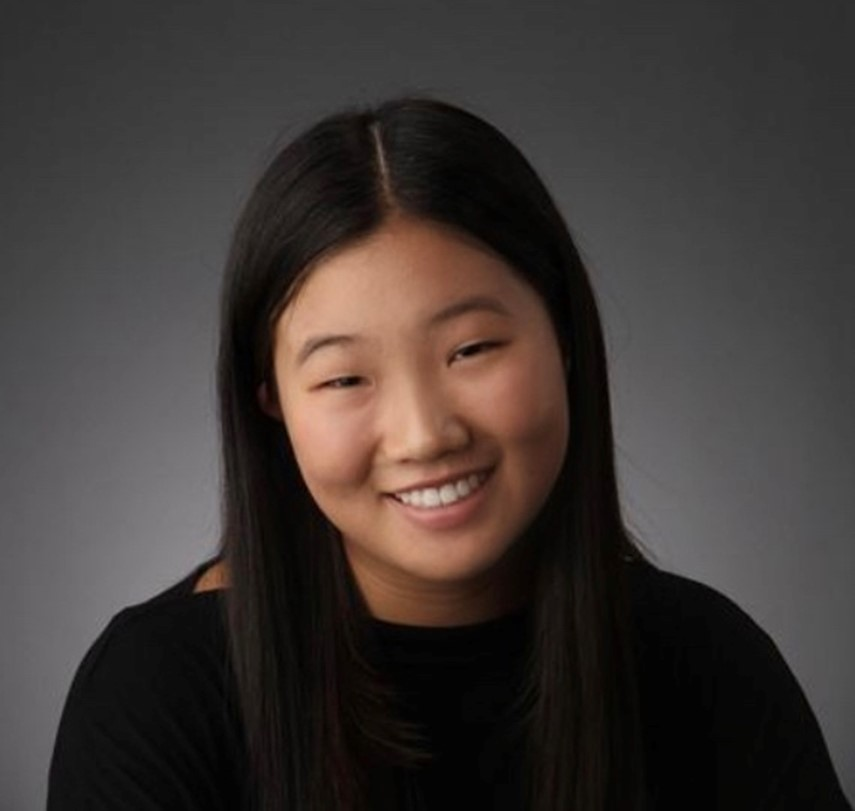
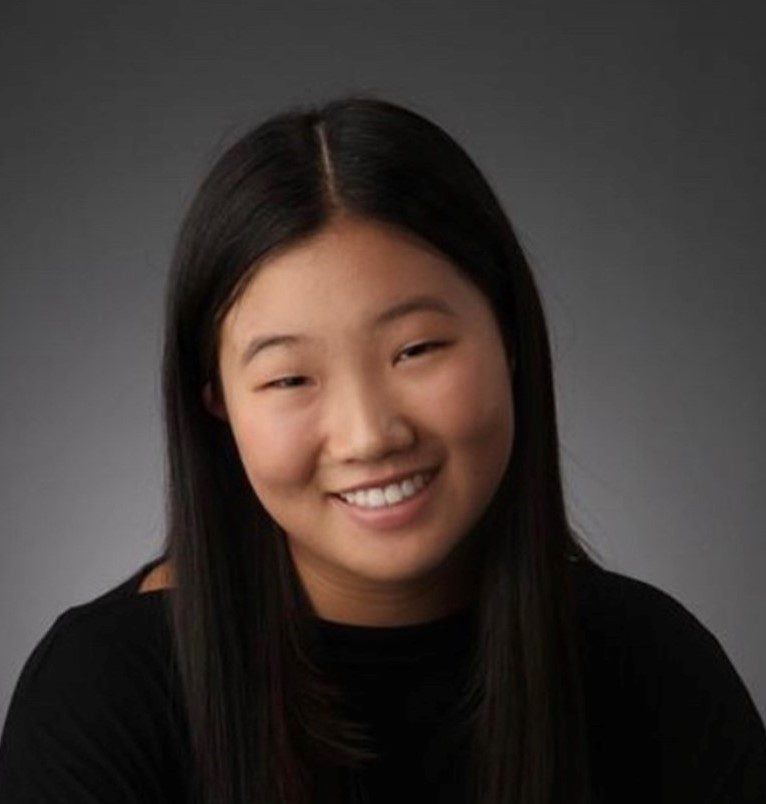
resized images (members pg)

diff --git a/react_packages/src/pages/Members.js b/react_packages/src/pages/Members.js
@@ -38,7 +38,7 @@ const Members = ({children, src, alt, Wrapper = 'div'}) => {
 
         <div className="grid">
 
-          <div className="imgAndName" onClick={toggleIsOpen} style={{ cursor: 'pointer' }} >
+          <div className="imgAndName2" onClick={toggleIsOpen} style={{ cursor: 'pointer' }} >
           <Wrapper>
               {children}
               {isOpen ?
@@ -48,7 +48,7 @@ const Members = ({children, src, alt, Wrapper = 'div'}) => {
                   <div className="blueBg"></div>
                   <div className="innerBg"></div>
 
-                  <img src={marilyn} alt="Marilyn Li, the President of CURIS" className="bigImg"/>
+                  <div className = "imgCont2"><img src={marilyn} alt="Marilyn Li, the President of CURIS" className="bigImg"/></div>
                   <div className="bigName">
                     <h4>Marilyn Li</h4>
                     <h5>President</h5>
@@ -63,12 +63,12 @@ const Members = ({children, src, alt, Wrapper = 'div'}) => {
                 : null}
             </Wrapper>
 
-            <img src={marilyn} alt="Marilyn Li, the President of CURIS" className="smallImg" />
+            <div className = "imgCont"><img src={marilyn} width="250px" alt="Marilyn Li, the President of CURIS" className="smallImg" /></div>
             <h4>Marilyn Li</h4>
             <h5>President</h5>
           </div>
 
-          <div className="imgAndName" onClick={toggleIsOpen2} style={{ cursor: 'pointer' }} >
+          <div className="imgAndName2" onClick={toggleIsOpen2} style={{ cursor: 'pointer' }} >
           <Wrapper>
               {children}
               {isOpen2 ?
@@ -93,28 +93,28 @@ const Members = ({children, src, alt, Wrapper = 'div'}) => {
                 : null}
             </Wrapper>
 
-            <img src={nishika} alt="Nishika Patel, the internal vice president of CURIS" className="smallImg"/>
+            <div className = "imgCont"><img src={nishika} width="250px" alt="Nishika Patel, the internal vice president of CURIS" className="smallImg"/></div>
             <h4>Nishika Patel</h4>
             <h5>Internal VP</h5>
           </div>
 
-          <div className="imgAndName">
-            <img src={geeta} alt="Geeta Rastogi, the external vice president of CURIS" />
+          <div className="imgAndName2">
+            <div className = "imgCont"><img src={geeta} width="250px" alt="Geeta Rastogi, the external vice president of CURIS" /></div>
             <h4>Geeta Rastogi</h4>
             <h5>External VP</h5>
           </div>
-          <div className="imgAndName">
-            <img src={claire} alt="Claire Gleason, the social chair of CURIS" />
+          <div className="imgAndName2">
+            <div className = "imgCont"><img src={claire} width="250px" alt="Claire Gleason, the social chair of CURIS" /></div>
             <h4>Claire Gleason</h4>
             <h5>Social Chair</h5>
           </div>
-          <div className="imgAndName">
-            <img src={srijani} alt="Srijani Sengupta, the secretary of CURIS" />
+          <div className="imgAndName2">
+            <div className = "imgCont"><img src={srijani} width="320px" alt="Srijani Sengupta, the secretary of CURIS" /></div>
             <h4>Srijani Sengupta</h4>
             <h5>Secretary</h5>
           </div>
-          <div className="imgAndName">
-            <img src={emma} alt="Emma Suh, the treasurer of CURIS" />
+          <div className="imgAndName2">
+            <div className = "imgCont"><img src={emma} width="290px" alt="Emma Suh, the treasurer of CURIS" /></div>
             <h4>Emma Suh</h4>
             <h5>Treasurer</h5>
           </div>
@@ -122,43 +122,43 @@ const Members = ({children, src, alt, Wrapper = 'div'}) => {
 
         <h1>Meet Our Committee Leads</h1>
         <div className="grid">
-          <div className="imgAndName">
-            <img src={samantha} alt="Samantha Gordon, the child care network lead of CURIS" />
+          <div className="imgAndName2">
+            <div className = "imgCont"><img src={samantha} width="320px" alt="Samantha Gordon, the child care network lead of CURIS" /></div>
             <h4>Samantha Gordon</h4>
             <h5>Child Care Network</h5>
           </div>
-          <div className="imgAndName">
-            <img src={vaishnavi} alt="Vaishnavi Krishnan, a family empowerment program lead of CURIS" />
+          <div className="imgAndName2">
+            <div className = "imgCont"><img src={vaishnavi} width="320px" alt="Vaishnavi Krishnan, a family empowerment program lead of CURIS" /></div>
             <h4>Vaishnavi Krishnan</h4>
             <h5>Family Empowerment Program</h5>
           </div>
-          <div className="imgAndName">
-            <img src={christina} alt="Christina Schafer, a family empowerment program lead of CURIS" />
+          <div className="imgAndName2">
+            <div className = "imgCont"><img src={christina} width="320px" alt="Christina Schafer, a family empowerment program lead of CURIS" /></div>
             <h4>Christina Schafer</h4>
             <h5>Family Empowerment Program</h5>
           </div>
-          <div className="imgAndName">
-            <img src={aditi} alt="Aditi Vijendra, the fresh start clubhouse lead of CURIS" />
+          <div className="imgAndName2">
+            <div className = "imgCont"><img src={aditi} width="320px" alt="Aditi Vijendra, the fresh start clubhouse lead of CURIS" /></div>
             <h4>Aditi Vijendra</h4>
             <h5>Fresh Start Clubhouse</h5>
           </div>
-          <div className="imgAndName">
-            <img src={vivian} alt="Vivian Chen, the Hope clinic lead of CURIS" />
+          <div className="imgAndName2">
+            <div className = "imgCont"><img src={vivian} width="320px" alt="Vivian Chen, the Hope clinic lead of CURIS" /></div>
             <h4>Vivian Chen</h4>
             <h5>Hope Clinic</h5>
           </div>
-          <div className="imgAndName">
-            <img src={daisey} alt="Daisey Yu, a program for multicultural health lead of CURIS" />
+          <div className="imgAndName2">
+            <div className = "imgCont"><img src={daisey} width="320px" alt="Daisey Yu, a program for multicultural health lead of CURIS" /></div>
             <h4>Daisey Yu</h4>
             <h5>Program for Multicultural Health</h5>
           </div>
-          <div className="imgAndName">
-            <img src={lakshmi} alt="Lakshmi Meyyappan, a program for multicultural health lead of CURIS" />
+          <div className="imgAndName2">
+            <div className = "imgCont"><img src={lakshmi} width="320px" alt="Lakshmi Meyyappan, a program for multicultural health lead of CURIS" /></div>
             <h4>Lakshmi Meyyappan</h4>
             <h5>Program for Multicultural Health</h5>
           </div>
-          <div className="imgAndName">
-            <img src={avani} alt="Avani Samandur, the Washtenaw health initiative lead of CURIS" />
+          <div className="imgAndName2">
+            <div className = "imgCont"><img src={avani} width="320px" alt="Avani Samandur, the Washtenaw health initiative lead of CURIS" /></div>
             <h4>Avani Samandur</h4>
             <h5>Washtenaw Health Initiative</h5>
           </div>

diff --git a/react_packages/src/pages/StyleMembers.css b/react_packages/src/pages/StyleMembers.css
@@ -28,23 +28,30 @@ h3 {
   justify-content: space-between;
 }
 
-.imgAndName {
+.imgAndName2 {
   width: 30%;
   display: flex;
   flex-direction: column;
 }
 
-.imgAndName:hover {
+.imgAndName2:hover {
   background-color: #eaf4f8;
 }
 
-.imgAndName img {
+.imgCont {
   background-color: lightblue;
   margin: 25px;
   width: 250px;
-  height: 250px;
+  height: 270px;
   align-self: center;
   overflow: hidden;
+}
+
+.imgCont img {
+  position: relative;
+  width: 105%;
+  top: 50%;
+  transform: translateY(-50%);
 }
 
 h4 {
@@ -80,17 +87,22 @@ h5 {
   z-index: 3;
 }
 
+/* .imgCont2 {
+  background-color: lightblue;
+  margin: 25px;
+  width: 250px;
+  height: 270px;
+  overflow: hidden;
+} */
+
 .bigImg {
   z-index: 3;
   position: fixed;
   top: 12%;
   right: 52%;
-  width: 300px;
 }
 
 .smallImg {
-  width: 250px;
-  height: 250px;
   overflow: hidden;
   align-self: center;
 }
